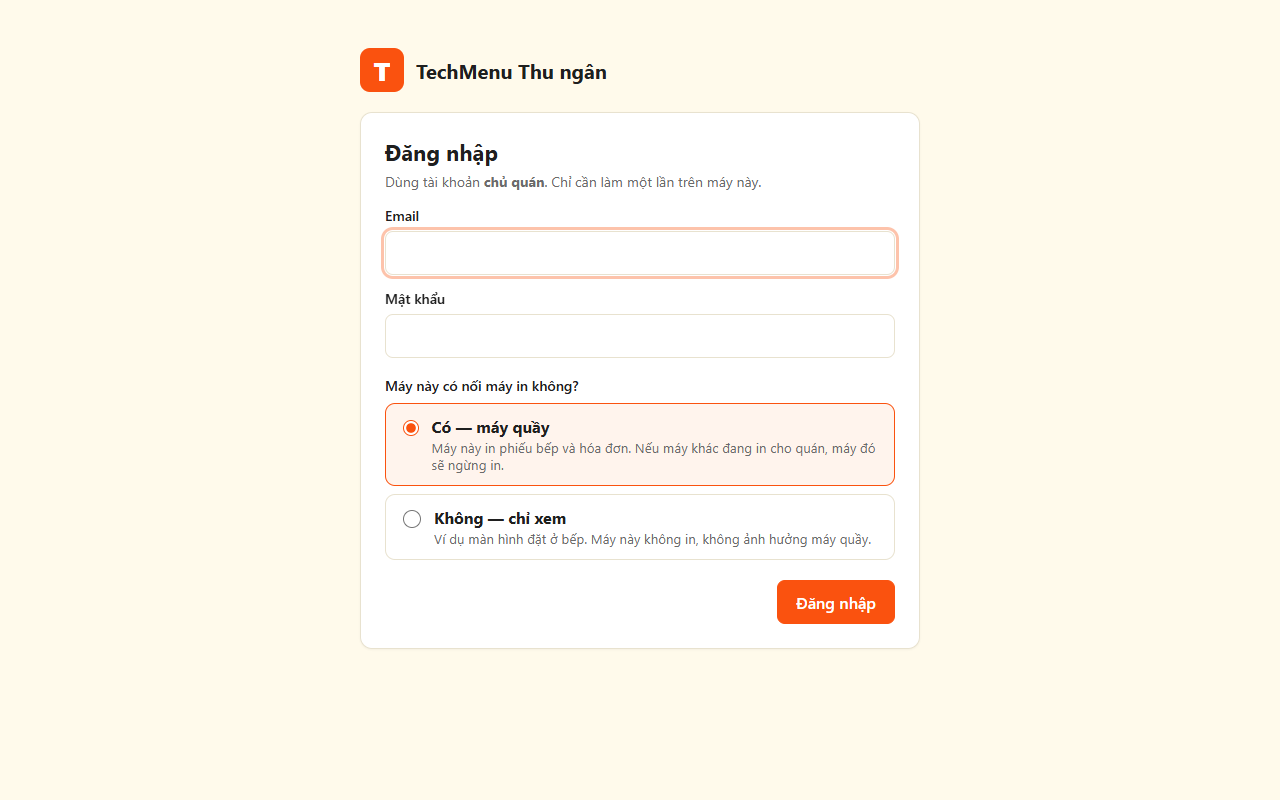
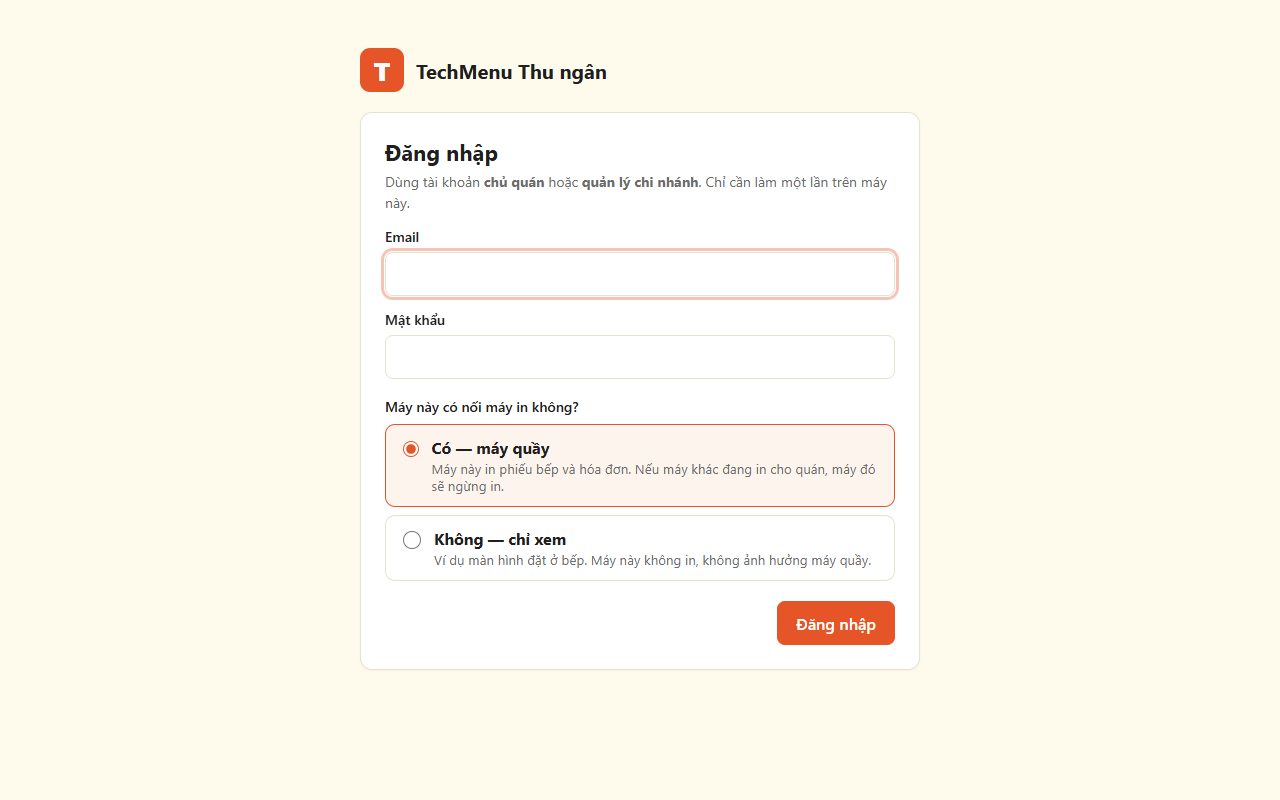
feat(desktop): let branch managers activate a cashier machine (1.0.3)
A manager belongs to one branch, so activation goes straight to that
branch; only accounts with more than one branch see the picker, now
titled "Chon chi nhanh lam viec" as in CUKCUK. Cashiers still cannot
activate a machine and still only sign in to their own branch's POS.
Decision recorded in QD-028.

Changed region(s): [[0.2812, 0.4688, 0.7188, 0.8125], [0.2812, 0.25, 0.7188, 0.4062], [0.4375, 0.2188, 0.6875, 0.25]]

diff --git a/tests/rls/desktop-activate.test.ts b/tests/rls/desktop-activate.test.ts
@@ -7,17 +7,18 @@ import {
   dangNhapRoiThuHoi,
   kichHoatMayQuay,
   LOI_DANG_NHAP,
-  LOI_KHONG_PHAI_CHU,
+  LOI_KHONG_DU_QUYEN,
   type DauVaoKichHoat,
 } from "@/lib/desktop/kich-hoat";
 import { bridgeEmailForSlug } from "@/lib/print/bridge-account";
 
 /**
- * DESK-01 — kích hoạt máy quầy "TechMenu Thu ngân" bằng email + mật khẩu chủ quán, trên DB thật.
+ * DESK-01 — kích hoạt máy quầy "TechMenu Thu ngân" bằng email + mật khẩu chủ quán hoặc quản lý chi nhánh
+ * (QD-028), trên DB thật.
  *
  * Chủ quán đúng → nhận quán; máy có máy in → tài khoản `printer` đăng nhập được; máy chỉ xem → KHÔNG động tới
- * tài khoản `printer` (PC ở bếp không được cướp cầu in của máy quầy). Không phải chủ / sai mật khẩu → từ chối,
- * sai email và sai mật khẩu cùng một câu.
+ * tài khoản `printer` (PC ở bếp không được cướp cầu in của máy quầy). Quản lý → vào thẳng chi nhánh của mình, không
+ * chọn được chi nhánh khác. Thu ngân / sai mật khẩu → từ chối, sai email và sai mật khẩu cùng một câu.
  *
  * Đụng hai quán demo pho-viet / bun-bo (như bridge-activation.test): trả lại `settings`, xóa tài khoản `printer`
  * và người dùng tạm trong afterAll.
@@ -29,6 +30,7 @@ let tenantB = "";
 const tam: string[] = [];
 const settingsCu = new Map<string, unknown>();
 let quanLy = { email: "", password: "" };
+let thuNgan = { email: "", password: "" };
 let chuHaiQuan = { email: "", password: "" };
 
 const vao = (x: Partial<DauVaoKichHoat>): DauVaoKichHoat => ({
@@ -59,6 +61,9 @@ beforeAll(async () => {
   const ql = await taoNguoi("manager");
   await admin.from("memberships").insert({ tenant_id: tenantA, user_id: ql.id, role: "manager", display_name: "DESK", active: true });
   quanLy = ql;
+  const tn = await taoNguoi("cashier");
+  await admin.from("memberships").insert({ tenant_id: tenantA, user_id: tn.id, role: "cashier", display_name: "DESK", active: true });
+  thuNgan = tn;
   const chu = await taoNguoi("owner2");
   await admin.from("memberships").insert([
     { tenant_id: tenantA, user_id: chu.id, role: "owner", display_name: "DESK", active: true },
@@ -81,7 +86,7 @@ afterAll(async () => {
   }
 }, 120_000);
 
-describe("kích hoạt máy quầy bằng tài khoản chủ quán", () => {
+describe("kích hoạt máy quầy bằng tài khoản chủ quán / quản lý", () => {
   it("máy chỉ xem → nhận quán, KHÔNG có tài khoản printer, không tạo mã", async () => {
     const truoc = await admin.from("bridge_activation_codes").select("id", { count: "exact", head: true }).eq("tenant_id", tenantA);
     const kq = await kichHoatMayQuay(admin, dangNhapRoiThuHoi, vao({ coMayIn: false }));
@@ -114,9 +119,19 @@ describe("kích hoạt máy quầy bằng tài khoản chủ quán", () => {
     expect(saiEmail).toEqual(saiMk);
   }, 60_000);
 
-  it("quản lý → từ chối, không phải chủ", async () => {
-    const kq = await kichHoatMayQuay(admin, dangNhapRoiThuHoi, vao({ ...quanLy, coMayIn: true }));
-    expect(kq).toEqual({ loai: "loi", status: 403, error: LOI_KHONG_PHAI_CHU });
+  it("quản lý chi nhánh → vào thẳng chi nhánh của mình, không có bước chọn chi nhánh", async () => {
+    const kq = await kichHoatMayQuay(admin, dangNhapRoiThuHoi, vao({ ...quanLy, coMayIn: false }));
+    expect(kq).toEqual({ loai: "xong", slug: OWNER_A.slug, tenantName: expect.any(String), may: null });
+  }, 60_000);
+
+  it("quản lý chọn chi nhánh khác → từ chối", async () => {
+    const kq = await kichHoatMayQuay(admin, dangNhapRoiThuHoi, vao({ ...quanLy, tenantId: tenantB }));
+    expect(kq).toEqual({ loai: "loi", status: 403, error: LOI_KHONG_DU_QUYEN });
+  }, 60_000);
+
+  it("thu ngân → từ chối", async () => {
+    const kq = await kichHoatMayQuay(admin, dangNhapRoiThuHoi, vao({ ...thuNgan, coMayIn: true }));
+    expect(kq).toEqual({ loai: "loi", status: 403, error: LOI_KHONG_DU_QUYEN });
   }, 60_000);
 
   it("chủ hai quán → danh sách chọn chi nhánh; chọn một → nhận đúng quán đó", async () => {
@@ -129,7 +144,7 @@ describe("kích hoạt máy quầy bằng tài khoản chủ quán", () => {
 
   it("chọn chi nhánh không thuộc mình → từ chối", async () => {
     const kq = await kichHoatMayQuay(admin, dangNhapRoiThuHoi, vao({ tenantId: tenantB }));
-    expect(kq).toEqual({ loai: "loi", status: 403, error: LOI_KHONG_PHAI_CHU });
+    expect(kq).toEqual({ loai: "loi", status: 403, error: LOI_KHONG_DU_QUYEN });
   }, 60_000);
   // Quán tạm ngưng: tests/desktop/kich-hoat.test.ts (giả lập DB — không tạm ngưng quán demo dùng chung).
 });

diff --git a/lib/desktop/kich-hoat.ts b/lib/desktop/kich-hoat.ts
@@ -3,8 +3,9 @@ import { createClient, type SupabaseClient } from "@supabase/supabase-js";
 import { createActivationCode, redeemActivationCode } from "@/lib/print/activation";
 
 /**
- * Kích hoạt máy quầy "TechMenu Thu ngân" bằng email + mật khẩu CHỦ QUÁN (DESK-01, QD-026 D6) — như KiotViet
- * Thu ngân đăng nhập tài khoản ngay trong app, không phải vào Admin tạo mã.
+ * Kích hoạt máy quầy "TechMenu Thu ngân" bằng email + mật khẩu CHỦ QUÁN hoặc QUẢN LÝ CHI NHÁNH (DESK-01, QD-026 D6,
+ * QD-028) — như KiotViet Thu ngân đăng nhập tài khoản ngay trong app, không phải vào Admin tạo mã. Quản lý chỉ thuộc
+ * một chi nhánh ⇒ vào thẳng chi nhánh đó; chỉ tài khoản có > 1 chi nhánh mới phải chọn.
  *
  * Máy có máy in: tạo mã kích hoạt rồi đổi NGAY trong cùng lượt (dùng lại nguyên PRINT-11: xoay mật khẩu
  * `printer`, đặt `print_mode = bridge`). Mã không bao giờ rời server. Máy chỉ xem (màn bếp): chỉ trả quán,
@@ -14,7 +15,7 @@ import { createActivationCode, redeemActivationCode } from "@/lib/print/activati
  */
 
 export const LOI_DANG_NHAP = "Email hoặc mật khẩu không đúng.";
-export const LOI_KHONG_PHAI_CHU = "Chỉ chủ quán kích hoạt được máy quầy.";
+export const LOI_KHONG_DU_QUYEN = "Chỉ chủ quán hoặc quản lý chi nhánh kích hoạt được máy quầy.";
 export const LOI_TAM_NGUNG = "Nhà hàng đang tạm ngưng — liên hệ TechMenu để mở lại.";
 export const LOI_DU_LIEU = "Dữ liệu gửi lên không hợp lệ.";
 export const LOI_KHAC = "Không kích hoạt được — thử lại sau ít phút.";
@@ -59,7 +60,7 @@ export async function dangNhapRoiThuHoi(email: string, password: string): Promis
 
 /**
  * `dangNhap` trả user id khi email + mật khẩu đúng, null khi sai. Sai email hay sai mật khẩu cùng một câu —
- * không cho dò email nào là chủ quán.
+ * không cho dò email nào là chủ quán / quản lý.
  */
 export async function kichHoatMayQuay(
   admin: SupabaseClient,
@@ -73,13 +74,13 @@ export async function kichHoatMayQuay(
     .from("memberships")
     .select("tenant_id")
     .eq("user_id", userId)
-    .eq("role", "owner")
+    .in("role", ["owner", "manager"])
     .eq("active", true);
   if (loiMs) return { loai: "loi", status: 500, error: LOI_KHAC };
   const ids = (ms ?? []).map((m) => m.tenant_id as string);
-  if (ids.length === 0) return { loai: "loi", status: 403, error: LOI_KHONG_PHAI_CHU };
-  // Chọn chi nhánh không thuộc mình → như không phải chủ (không nói quán đó có tồn tại không).
-  if (vao.tenantId && !ids.includes(vao.tenantId)) return { loai: "loi", status: 403, error: LOI_KHONG_PHAI_CHU };
+  if (ids.length === 0) return { loai: "loi", status: 403, error: LOI_KHONG_DU_QUYEN };
+  // Chọn chi nhánh không thuộc mình → như không đủ quyền (không nói quán đó có tồn tại không).
+  if (vao.tenantId && !ids.includes(vao.tenantId)) return { loai: "loi", status: 403, error: LOI_KHONG_DU_QUYEN };
 
   const { data: quans, error: loiQ } = await admin
     .from("tenants")

diff --git a/app/api/desktop/activate/route.ts b/app/api/desktop/activate/route.ts
@@ -7,10 +7,10 @@ export const dynamic = "force-dynamic";
 
 /**
  * POST /api/desktop/activate { email, password, tenantId?, coMayIn } — app "TechMenu Thu ngân" kích hoạt máy quầy
- * bằng tài khoản chủ quán (DESK-01, QD-026 D6).
+ * bằng tài khoản chủ quán hoặc quản lý chi nhánh (DESK-01, QD-026 D6, QD-028).
  *
- * Trả: `{ chonChiNhanh }` khi chủ có nhiều chi nhánh; hoặc quán + (máy có máy in) tài khoản `printer` + khóa CÔNG
- * KHAI của Supabase. Không bao giờ trả service-role (QD-012 §1). Mật khẩu chủ quán chỉ dùng để kiểm rồi bỏ — phiên
+ * Trả: `{ chonChiNhanh }` khi tài khoản có nhiều chi nhánh; hoặc quán + (máy có máy in) tài khoản `printer` + khóa CÔNG
+ * KHAI của Supabase. Không bao giờ trả service-role (QD-012 §1). Mật khẩu đăng nhập chỉ dùng để kiểm rồi bỏ — phiên
  * đăng nhập bị thu hồi ngay. Không log thân yêu cầu/phản hồi.
  */
 export async function POST(req: Request) {

diff --git a/desktop/trang/kich-hoat.html b/desktop/trang/kich-hoat.html
@@ -12,7 +12,7 @@
 
   <form id="form" class="the" novalidate>
     <h1>Đăng nhập</h1>
-    <p class="phu">Dùng tài khoản <b>chủ quán</b>. Chỉ cần làm một lần trên máy này.</p>
+    <p class="phu">Dùng tài khoản <b>chủ quán</b> hoặc <b>quản lý chi nhánh</b>. Chỉ cần làm một lần trên máy này.</p>
 
     <label class="o-nhap" for="email">Email</label>
     <input id="email" type="email" autocomplete="username" required autofocus>
@@ -41,7 +41,7 @@
   </form>
 
   <section id="chon" class="the an" aria-labelledby="chon-tieu-de">
-    <h2 id="chon-tieu-de">Chọn chi nhánh cho máy này</h2>
+    <h2 id="chon-tieu-de">Chọn chi nhánh làm việc</h2>
     <div id="ds" class="ds-chi-nhanh"></div>
     <div id="loi-chon" class="thong-bao loi an" role="alert"></div>
     <div class="nut-cuoi"><button id="quay-lai" type="button">Quay lại</button></div>

diff --git a/desktop/trang/kich-hoat.js b/desktop/trang/kich-hoat.js
@@ -1,4 +1,4 @@
-// Màn Đăng nhập (DESK-01). Mật khẩu chủ quán chỉ sống trong biến của trang này tới khi kích hoạt xong — app không lưu.
+// Màn Đăng nhập (DESK-01, QD-028). Mật khẩu chủ quán / quản lý chỉ sống trong biến của trang này tới khi kích hoạt xong — app không lưu.
 const $ = (id) => document.getElementById(id);
 const form = $("form");
 const chon = $("chon");
@@ -27,7 +27,7 @@ form.addEventListener("submit", async (e) => {
   e.preventDefault();
   baoLoi($("loi"), "");
   if (!$("email").value.trim() || !$("mat-khau").value) {
-    baoLoi($("loi"), "Nhập email và mật khẩu chủ quán.");
+    baoLoi($("loi"), "Nhập email và mật khẩu.");
     return;
   }
   const nut = $("nut");

diff --git a/docs/20-DanhSachYeuCau/00-Requirements.md b/docs/20-DanhSachYeuCau/00-Requirements.md
@@ -236,8 +236,8 @@
 
 | Mã | Yêu cầu | Tiêu chí chấp nhận | GĐ | TT |
 |---|---|---|---|---|
-| DESK-01 | Kích hoạt máy quầy bằng tài khoản chủ quán | Lần đầu mở app: màn **Đăng nhập** gồm ô **Email**, **Mật khẩu**, nút **Đăng nhập** (như KiotViet; không cần mã kích hoạt). Đúng tài khoản **owner** của quán đang hoạt động → app nhận quán và tự nhận tài khoản `printer` của đúng quán (server dùng lại cơ chế PRINT-11, không trả service-role); chủ nhiều chi nhánh (P15) → danh sách **chọn chi nhánh**. Hỏi **"Máy này có nối máy in không?"** — **Có (máy quầy)** → nhận tài khoản `printer` (máy khác đang giữ cầu in của quán sẽ ngừng in — báo trước khi xác nhận); **Không (chỉ xem, ví dụ màn bếp)** → không nhận tài khoản `printer`, không chạy cầu in. Mật khẩu chủ quán **không lưu** trên máy (tìm trong thư mục dữ liệu app: 0 kết quả). Sai email/mật khẩu → một câu báo chung, không phân biệt sai email hay sai mật khẩu; manager/thu ngân → "Chỉ chủ quán kích hoạt được máy quầy"; quán bị khóa → báo lý do; giới hạn tần suất như `/api/bridge/activate` (test: vượt ngưỡng → 429) | P21 | ☐ |
-| DESK-02 | Mở đúng quán, chuyển Thu ngân / Màn bếp | Đã kích hoạt → mở app (hoặc bật máy) → vào thẳng `/r/{slug}/pos`; nhân viên đăng nhập email + PIN như web (QD-009); phiên giữ qua lần tắt/bật app. Menu ☰: **Thu ngân** · **Màn bếp** (`/r/{slug}/kds`) · **Tải lại** · **Đổi chi nhánh** (chỉ hiện khi chủ có > 1 chi nhánh; cần đăng nhập chủ quán lại) · **Đăng xuất máy quầy** (hỏi xác nhận, xóa cấu hình, ngừng in, về màn Đăng nhập). App nhớ màn chọn lần trước — PC đặt ở bếp bật lên là vào Màn bếp | P21 | ☐ |
+| DESK-01 | Kích hoạt máy quầy bằng tài khoản chủ quán / quản lý chi nhánh | Lần đầu mở app: màn **Đăng nhập** gồm ô **Email**, **Mật khẩu**, nút **Đăng nhập** (như KiotViet; không cần mã kích hoạt). Đúng tài khoản **owner hoặc manager** của quán đang hoạt động (QD-028) → app nhận quán và tự nhận tài khoản `printer` của đúng quán (server dùng lại cơ chế PRINT-11, không trả service-role); tài khoản thuộc > 1 chi nhánh (chủ chuỗi, P15) → danh sách **"Chọn chi nhánh làm việc"**; quản lý một chi nhánh → vào thẳng chi nhánh của mình, gửi chi nhánh khác → từ chối (test DB thật). Hỏi **"Máy này có nối máy in không?"** — **Có (máy quầy)** → nhận tài khoản `printer` (máy khác đang giữ cầu in của quán sẽ ngừng in — báo trước khi xác nhận); **Không (chỉ xem, ví dụ màn bếp)** → không nhận tài khoản `printer`, không chạy cầu in. Mật khẩu chủ quán **không lưu** trên máy (tìm trong thư mục dữ liệu app: 0 kết quả). Sai email/mật khẩu → một câu báo chung, không phân biệt sai email hay sai mật khẩu; thu ngân/phục vụ/bếp → "Chỉ chủ quán hoặc quản lý chi nhánh kích hoạt được máy quầy."; quán bị khóa → báo lý do; giới hạn tần suất như `/api/bridge/activate` (test: vượt ngưỡng → 429) | P21 | ☐ |
+| DESK-02 | Mở đúng quán, chuyển Thu ngân / Màn bếp | Đã kích hoạt → mở app (hoặc bật máy) → vào thẳng `/r/{slug}/pos`; nhân viên đăng nhập email + PIN như web (QD-009); phiên giữ qua lần tắt/bật app. Menu ☰: **Thu ngân** · **Màn bếp** (`/r/{slug}/kds`) · **Tải lại** · **Đổi chi nhánh** (chỉ hiện khi tài khoản kích hoạt có > 1 chi nhánh; cần đăng nhập chủ quán lại) · **Đăng xuất máy quầy** (hỏi xác nhận, xóa cấu hình, ngừng in, về màn Đăng nhập). App nhớ màn chọn lần trước — PC đặt ở bếp bật lên là vào Màn bếp | P21 | ☐ |
 | DESK-03 | Chạy nền, tự khởi động, chỉ một bản | Cài xong app tự chạy cùng Windows (không cần quyền admin). Bấm ✕ → ẩn xuống khay hệ thống, cầu in vẫn chạy. Menu khay: **Mở TechMenu** · tình trạng máy in bếp/quầy · **Thoát** (hỏi "Thoát thì máy này ngừng in phiếu bếp và hóa đơn"). Mở app lần hai → hiện cửa sổ đang chạy, **không** sinh tiến trình thứ hai (kiểm: mở 5 lần → 1 tiến trình, 1 nguồn nhịp tim) | P21 | ☐ |
 | DESK-04 | Vỏ app an toàn, không trang lỗi trắng | Trang web trong app không chạm được Node/tệp máy (test tự động: `typeof require`, `typeof process` = `undefined` trong trang); chỉ điều hướng trong tên miền app, link ngoài mở bằng trình duyệt mặc định; bản phát hành không mở được DevTools. Mất mạng lúc mở app → màn của app "Chưa kết nối được — đang thử lại" + tự thử lại, không hiện trang lỗi Chromium; đã có dữ liệu P17 thì hiện màn xem offline (OFFLINE-01) | P21 | ☐ |
 | DESK-05 | Cầu in chạy trong app | Dùng lại `scripts/print-bridge.mjs` (một nguồn code in cho cả cầu in cũ và app, không chép thành hai bản); cấu hình đọc từ dữ liệu app thay cho `.env.local`. Đạt lại PRINT-06/08/15 + OFFLINE-02 khi chạy trong app: test `cau-in-mat-mang` xanh; nhịp tim báo nguồn **app** + phiên bản app, `/admin/printers` và `/super` phân biệt cầu in cũ / app | P21 | ☐ |

diff --git a/docs/15-QuyetDinh/QD-028-QuanLyChiNhanhKichHoatMayQuay.md b/docs/15-QuyetDinh/QD-028-QuanLyChiNhanhKichHoatMayQuay.md
@@ -1,0 +1,49 @@
+# QD-028 — Quản lý chi nhánh tự kích hoạt máy quầy; chỉ tài khoản nhiều chi nhánh mới phải chọn chi nhánh
+
+**Ngày:** 29/09/2026 · **Trạng thái:** ĐÃ CHỐT (chủ dự án, 29/09/2026 — chọn "B. Cho quản lý chi nhánh tự cài máy")
+**Sửa:** QD-026 D6 · **Yêu cầu:** DESK-01, DESK-02 · **Kế hoạch:** `30-KeHoach/P21/`
+
+## Bối cảnh
+
+Chủ dự án xem màn **"Chọn chi nhánh cho máy này"** của app TechMenu Thu ngân và thấy không hợp lý: chi nhánh phải do
+tài khoản quản lý phân cho nhân viên, tránh nhân viên chi nhánh 2 vào nhầm chi nhánh 1.
+
+Rà code (29/09/2026): nhân viên **đã** gắn cứng một chi nhánh (`memberships.tenant_id`), và đăng nhập POS trên máy
+chi nhánh khác bị từ chối ("Tài khoản không thuộc nhà hàng này." — `app/r/[slug]/station-actions.ts`). Màn chọn chi
+nhánh chỉ hiện khi **chủ chuỗi** kích hoạt máy, vì QD-026 D6 chỉ cho tài khoản `owner` kích hoạt. Như vậy mỗi máy ở
+mỗi chi nhánh đều cần chủ chuỗi tới cài, và chủ phải tự chọn đúng chi nhánh.
+
+## Đối thủ làm thế nào (tra 29/09/2026)
+
+| Đối thủ | Ai đăng nhập app thu ngân | Chi nhánh | Nguồn |
+|---|---|---|---|
+| KiotViet | Chủ, quản trị chi nhánh, thu ngân | Chủ phân quyền theo **Chi nhánh** cho từng người dùng; form đăng nhập không có ô chi nhánh; đổi chi nhánh ở menu ☰ "thay đổi chi nhánh đăng nhập" | kiotviet.vn/huong-dan-su-dung-kiotviet/fnb-thiet-lap/quan-ly-nguoi-dung/ · kiotviet.vn/ung-dung-kiotviet-thu-ngan/ |
+| CUKCUK | Mọi vai trò | Đăng nhập → **"Chọn chi nhánh làm việc"** → Đồng ý, chỉ lần đầu và chỉ ở nhà hàng chuỗi; máy nhớ; một chi nhánh thì bỏ qua bước này | helpv2.cukcuk.vn/vi/kb/dang-nhap-de-bat-dau-lam-viec-nhu-the-nao |
+| Sapo FnB | Chủ / quản lý chuỗi bằng mật khẩu; nhân viên bằng mã thiết bị + PIN | Tài khoản nhiều cửa hàng → "chọn cửa hàng cần đăng nhập"; thiết bị tạo trong trang quản trị, gắn cửa hàng | help.sapo.vn/cai-dat-va-dang-nhap-ung-dung-sapo-thu-ngan · help.sapo.vn/thiet-lap-thiet-bi-ban-hang-tren-trang-quan-tri-sapo-fnb |
+| iPOS | — | "Phạm vi thương hiệu, cửa hàng" trong cài đặt tài khoản; thiết bị kích hoạt bằng Device Code / QR | fabi-docs.ipos.vn |
+
+**Điểm chung:** chủ gán chi nhánh cho từng tài khoản; chọn chi nhánh diễn ra **sau** đăng nhập và **chỉ khi tài khoản
+có nhiều chi nhánh**; một chi nhánh thì vào thẳng; máy nhớ chi nhánh.
+
+## Quyết định
+
+| # | Việc | Chọn |
+|---|---|---|
+| D1 | Ai kích hoạt được máy quầy | Tài khoản **owner hoặc manager** đang hoạt động của quán (trước: chỉ owner). Thu ngân / phục vụ / bếp → "Chỉ chủ quán hoặc quản lý chi nhánh kích hoạt được máy quầy." |
+| D2 | Chọn chi nhánh | Chỉ hiện khi tài khoản thuộc **> 1** chi nhánh đang mở (chủ chuỗi). Quản lý một chi nhánh → vào thẳng chi nhánh của mình. Gửi `tenantId` không thuộc tài khoản → từ chối như không đủ quyền |
+| D3 | Chữ trên màn | "Dùng tài khoản **chủ quán** hoặc **quản lý chi nhánh**"; tiêu đề danh sách **"Chọn chi nhánh làm việc"** (theo CUKCUK) |
+| D4 | Thu ngân | Vẫn **không** kích hoạt máy; đăng nhập POS trong app bằng email + PIN như nay (QD-009), chỉ vào được chi nhánh của mình |
+
+## Khác đối thủ — lý do
+
+- KiotViet/CUKCUK cho cả thu ngân đăng nhập app. Ở TechMenu, **kích hoạt máy** (một lần, cấp tài khoản `printer`,
+  máy khác đang in cho quán sẽ ngừng in) tách khỏi **đăng nhập ca làm** (thu ngân gõ email + PIN mỗi ca). Việc thu ngân
+  làm hằng ngày giống đối thủ; việc cài máy giao cho người quản lý chi nhánh vì nó giành quyền in của cả chi nhánh.
+
+## Hệ quả
+
+- Quản lý chi nhánh giờ có thể chuyển máy in của chi nhánh mình sang máy khác (kích hoạt "Có — máy quầy" xoay mật khẩu
+  `printer` của quán đó). Không chạm được chi nhánh khác.
+- Menu **Đổi chi nhánh** chỉ hiện khi tài khoản kích hoạt có > 1 chi nhánh — máy do quản lý cài không có mục này.
+- Chữ trên màn Đăng nhập nằm trong bộ cài app ⇒ cần phát hành bản app mới (1.0.3) để máy đã cài thấy chữ mới; phần kiểm
+  quyền ở server có hiệu lực ngay khi deploy web.

diff --git a/docs/15-QuyetDinh/QD-026-UngDungThuNganWindows.md b/docs/15-QuyetDinh/QD-026-UngDungThuNganWindows.md
@@ -18,7 +18,7 @@ Chủ dự án muốn **thương mại hóa lâu dài** và có ứng dụng Win
 | D3 | Ký số ứng dụng | **Chưa ký số trong lúc làm app; ký số sau khi app hoàn thiện** (chủ dự án, 29/09/2026) | Không tốn phí chứng chỉ trả theo năm khi app chưa bán; thêm ký số về sau không đổi kiến trúc | Mua chứng chỉ ngay từ đầu |
 | D4 | Tên hiển thị | Thương hiệu **TechMenu**; app máy quầy: **"TechMenu Thu ngân"**; tên miền dự kiến **`techmenu.vn`** (+ giữ `techmenu.com.vn`) — **chưa mua** (chủ dự án, 29/09/2026) | Theo kiểu "KiotViet Thu ngân"; tra sơ bộ chưa trùng ai ở VN; `.vn` còn trống | "POSMenu" (tên tạm ở `/huong-dan-cai-dat`); "MenuTech" (trùng Menutech Berlin cùng ngành); "McTech" (trùng Cty TNHH Kỹ thuật Mỹ Cường — McTech, phân phối linh kiện máy tính tại VN từ 1998; rủi ro McDonald's phản đối tiền tố "Mc" trong ngành ăn uống); `techmenu.top` (đuôi `.top` bị lạm dụng spam/lừa đảo ⇒ email vào spam, bộ cài chưa ký tải từ đó dễ bị chặn); `techmenu.com` (đã có chủ, rao bán lại ~104.000 USD) |
 | D5 | macOS | **Không làm** | Quán VN dùng Windows là chính; Electron làm được bản Mac sau nếu cần | — |
-| D6 | Kích hoạt máy quầy | **Email + mật khẩu chủ quán** ngay trong app (chủ dự án, 29/09/2026). Server kiểm owner rồi tự cấp tài khoản `printer` bằng cơ chế mã kích hoạt PRINT-11 (mã chỉ dùng nội bộ); mật khẩu chủ quán không lưu trên máy | Giống KiotViet (đăng nhập tài khoản trong app); không phải vào Admin tạo mã | Gõ mã kích hoạt 8 ký tự như bộ cài cầu in — thêm bước, khác đối thủ |
+| D6 | Kích hoạt máy quầy | **Email + mật khẩu chủ quán** ngay trong app (chủ dự án, 29/09/2026). **Sửa bởi QD-028:** quản lý chi nhánh cũng kích hoạt được. Server kiểm owner rồi tự cấp tài khoản `printer` bằng cơ chế mã kích hoạt PRINT-11 (mã chỉ dùng nội bộ); mật khẩu chủ quán không lưu trên máy | Giống KiotViet (đăng nhập tài khoản trong app); không phải vào Admin tạo mã | Gõ mã kích hoạt 8 ký tự như bộ cài cầu in — thêm bước, khác đối thủ |
 | D7 | Màn hình trong app | **Thu ngân + Màn bếp** (chủ dự án, 29/09/2026), chuyển bằng menu ☰; nhớ màn chọn lần trước | Giống KiotViet (Thu ngân / Bếp / Lễ tân); Màn bếp chỉ là mở trang KDS sẵn có | Chỉ Thu ngân; thêm Lễ tân (đặt bàn đang ở admin web — để sau) |
 | D8 | Quyền khi cài | Cài cho người dùng hiện tại, **không cần quyền admin** (chủ dự án đồng ý 29/09/2026; lệch CUKCUK "chạy với quyền admin") | Bản chưa ký thì hộp xin quyền admin hiện "Nhà phát hành: Không xác định" — bỏ được một cảnh báo; tự khởi động + in USB không cần admin | Cài cho mọi người dùng (cần admin) |
 

diff --git a/docs/30-KeHoach/P21/21-SUMMARY.md b/docs/30-KeHoach/P21/21-SUMMARY.md
@@ -43,12 +43,14 @@
 | 1.0.1 (web) | Ngay sau khi phát hành bản mới, nút tải đọc `latest.yml` lưu đệm 5 phút → trỏ tệp bản cũ đã không còn ở release "latest" (tải về 404) | `/api/desktop/latest` đọc không lưu đệm; unit test |
 | 1.0.2 | Chủ dự án muốn có nút cập nhật: hộp thoại "Cập nhật ngay / Để sau" khi tải xong, "Cập nhật lên bản…" + "Kiểm tra cập nhật" ở ☰ và khay; Giới thiệu có nút cập nhật | 9/9 E2E trên bản đã cài; hỏi production → "Đã là bản mới nhất (1.0.2)"; **1.0.1 đã cài tự tải 1.0.2 (27 giây) và tự cài khi Thoát (< 10 giây)** |
 
+| 1.0.3 (chưa phát hành) · web | Chủ dự án: màn "Chọn chi nhánh cho máy này" không hợp lý — chi nhánh phải do quản lý phân cho nhân viên. **QD-028**: tài khoản **quản lý chi nhánh** kích hoạt được máy, vào thẳng chi nhánh của mình; chỉ tài khoản > 1 chi nhánh mới phải chọn ("Chọn chi nhánh làm việc", theo CUKCUK). Thu ngân vẫn chỉ đăng nhập POS bằng email + PIN, máy chi nhánh khác từ chối như cũ | `tests/rls/desktop-activate.test.ts` 9/9 trên DB production (quán demo): quản lý → vào thẳng; quản lý gửi chi nhánh khác → từ chối; thu ngân → từ chối · `tests/desktop` 43/43 · E2E app 7/7 (ảnh `anh/1-dang-nhap.png`, `anh/2-chon-chi-nhanh.png` chụp lại) |
+
 Phát hành 1.0.1 và 1.0.2: build → quét bí mật (0) → tạo release nháp trên GitHub bằng quyền git đã lưu → tải đủ 3 tệp → mới công bố "latest".
 
 ## Chưa làm — cần người / hạ tầng
 
-1. `.env.local` đã trỏ project production (29/09/2026). **Chưa chạy** `tests/rls/desktop-activate.test.ts`, `cau-in-mat-mang` với
-   Electron: các test này ghi vào quán demo trên DB production — chờ chủ dự án đồng ý.
+1. `.env.local` đã trỏ project production (29/09/2026). Chủ dự án cho phép test ghi vào quán demo, **chỉ cấm đụng qt-food**.
+   `tests/rls/desktop-activate.test.ts` đã chạy 9/9 (29/09/2026). Chưa chạy `cau-in-mat-mang` với Electron.
 2. ~~Áp migration 0075~~ — **đã áp production 29/09/2026** (`supabase db push`, chỉ 0075). Kiểm: hàm còn đúng một bản 6 tham số, cột
    `agent` có, anon không gọi được / authenticated gọi được; đóng vai tài khoản printer qt-food trong giao dịch ROLLBACK — kiểu gọi cầu
    in cũ (3 tham số) và kiểu app (`p_agent`) đều chạy. `schema-snapshot.json` cập nhật.

diff --git a/docs/30-KeHoach/P21/00-TongQuan.md b/docs/30-KeHoach/P21/00-TongQuan.md
@@ -1,7 +1,7 @@
 # P21 — Ứng dụng Windows cho máy thu ngân "TechMenu Thu ngân" (CODE XONG 21-01→21-03 — chưa deploy/phát hành)
 
 > Lập 29/09/2026. **Trạng thái: ĐÃ CHỐT PHƯƠNG ÁN A** (chủ dự án, 29/09/2026 — xem **QD-026**): Electron + gộp cầu in,
-> **ký số sau khi app hoàn thiện**, tên **TechMenu Thu ngân** (tên miền dự kiến `techmenu.vn`, chưa mua), bán khi mất Internet để sau. Kích hoạt bằng email + mật khẩu chủ quán, app có Thu ngân + Màn bếp (QD-026 D6, D7).
+> **ký số sau khi app hoàn thiện**, tên **TechMenu Thu ngân** (tên miền dự kiến `techmenu.vn`, chưa mua), bán khi mất Internet để sau. Kích hoạt bằng email + mật khẩu chủ quán **hoặc quản lý chi nhánh** (QD-028 — quản lý vào thẳng chi nhánh của mình, chỉ tài khoản nhiều chi nhánh mới chọn), app có Thu ngân + Màn bếp (QD-026 D6, D7).
 > Yêu cầu: **DESK-01..12** trong `20-DanhSachYeuCau/00-Requirements.md`. Plan: `21-01-PLAN.md` … `21-04-PLAN.md`. Kết quả + việc còn lại: `21-SUMMARY.md`.
 > Phụ thuộc: P11/P12 (cầu in, bộ cài `CAI-DAT.bat`, tự cập nhật PRINT-12), P17 (bán khi mất mạng — màn xem offline).
 
